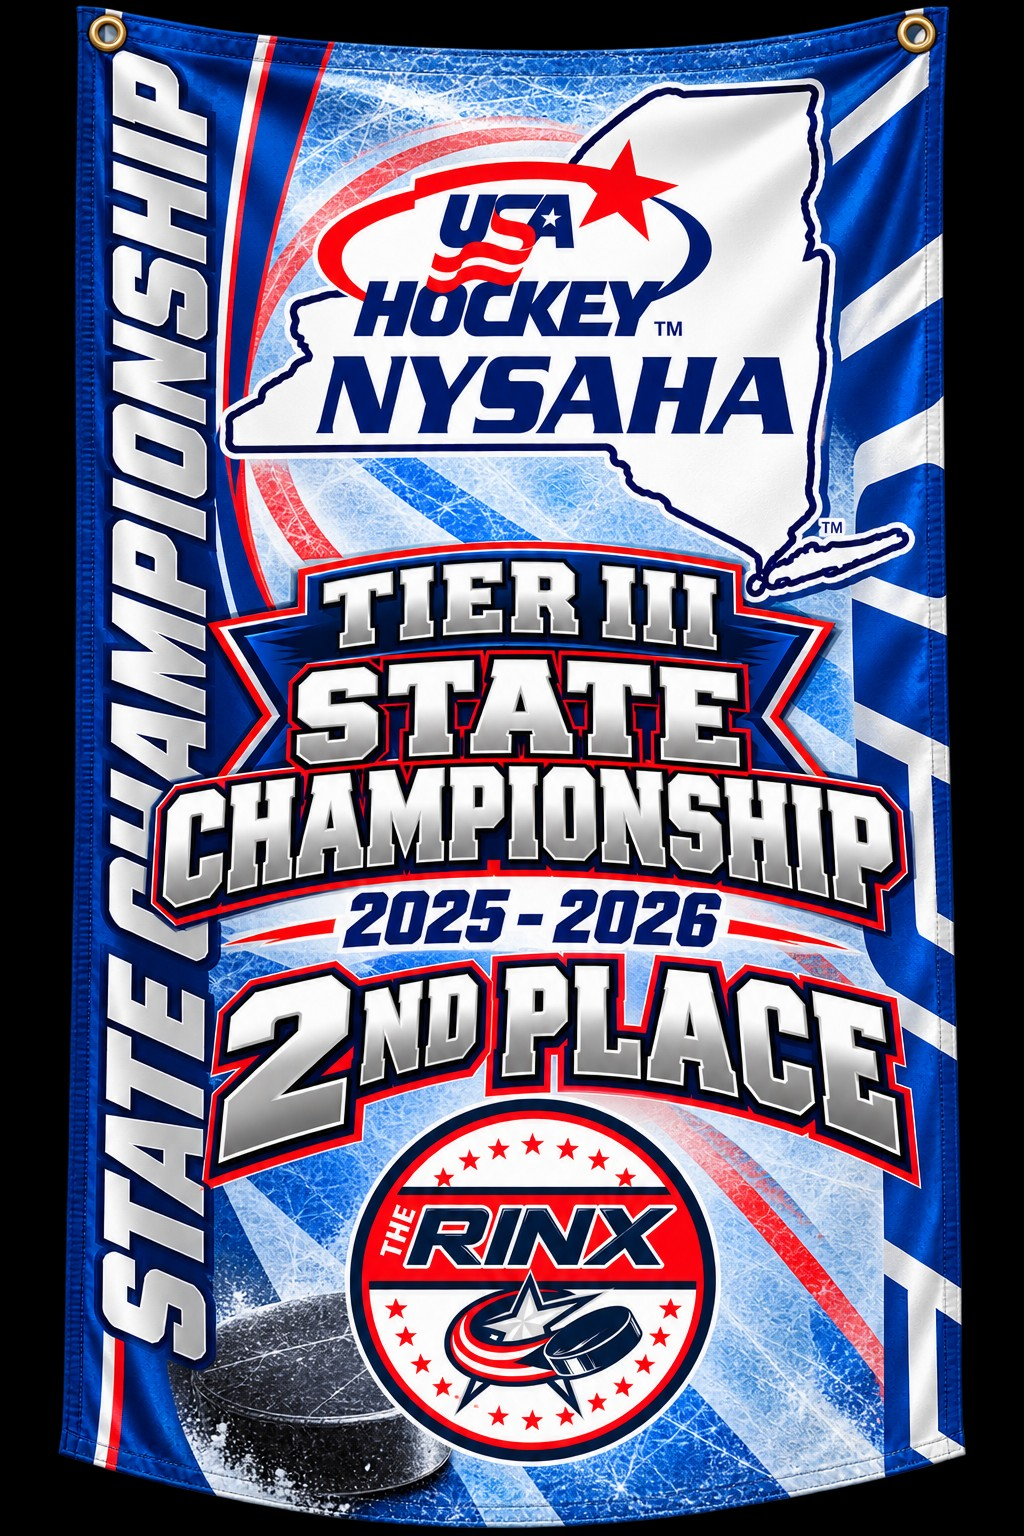
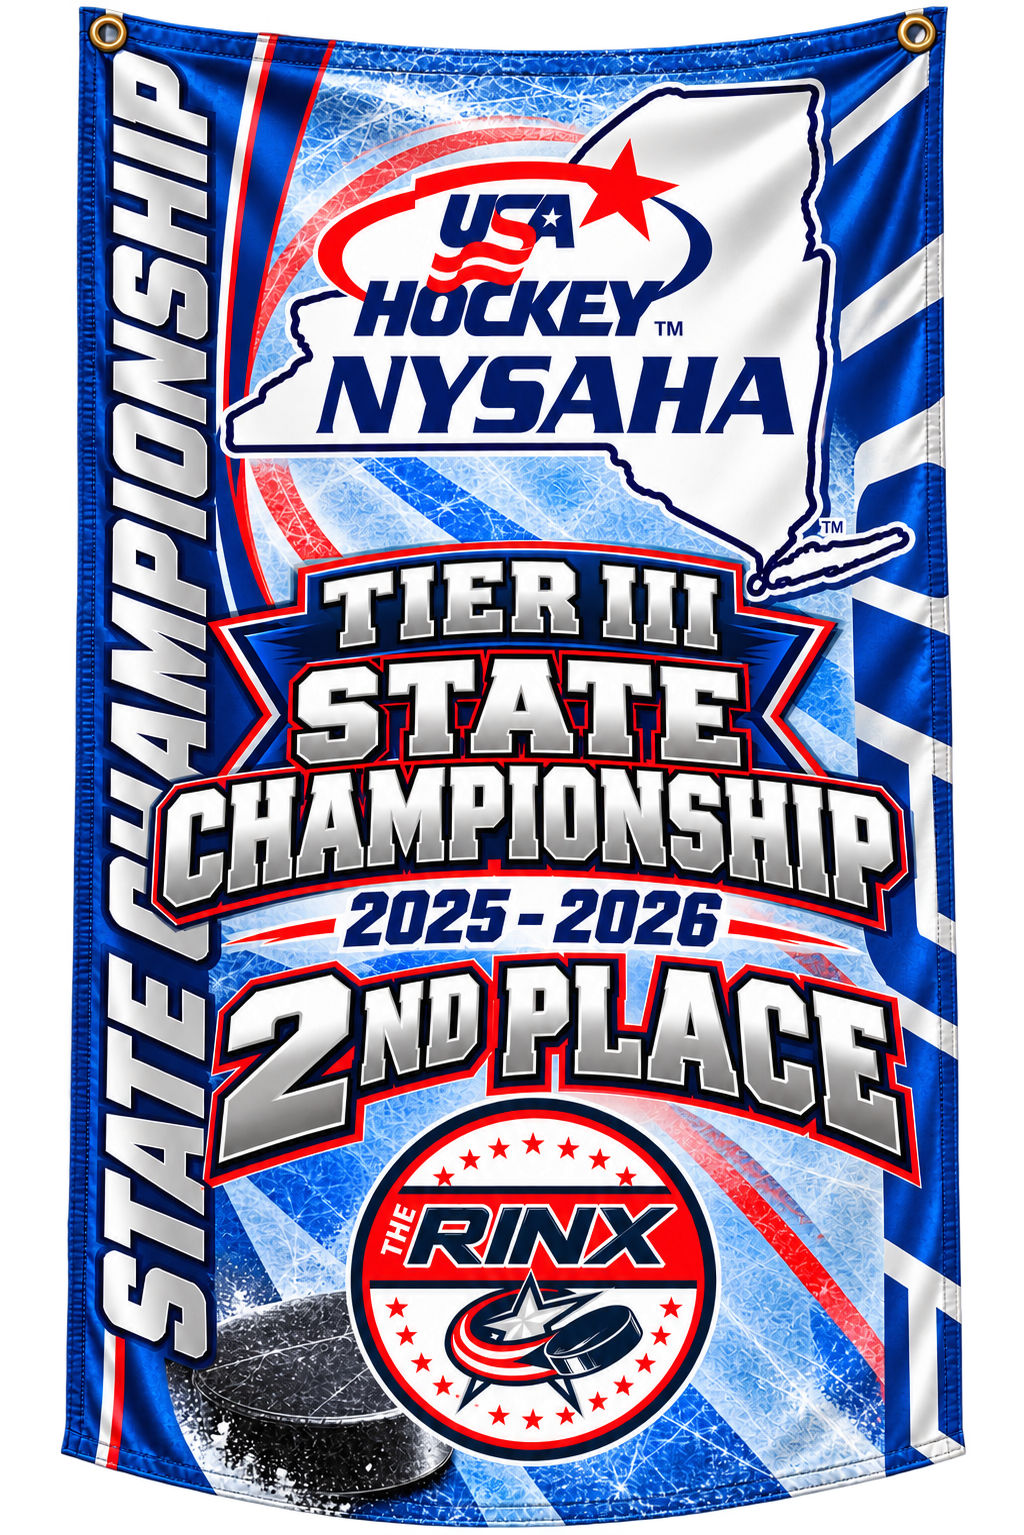
Trophy Room: tab names, headings and captions authored in DA
The block table is now | Team | Item | Text |: Tab, Banners heading and
Gallery heading rows per team, plus one row per GitHub image file name with
its caption (banners under the banner, photos in the viewer and as alt
text). Blank cells fall back to the defaults.

Also moves the transparent Tier III State Championship banner (uploaded into
the generated images/trophy-room folder) into images/trophyroom-14u so it
replaces the black-background version.

diff --git a/blocks/trophy-room/trophy-room.js b/blocks/trophy-room/trophy-room.js
@@ -3,12 +3,19 @@
  * Tabs per team (10U first). Each tab shows the team's championship banners
  * in one horizontal line, then its photo gallery.
  *
- * Banners and photos come from GitHub, listed in /data/trophy-room.json by
+ * Images come from GitHub, listed in /data/trophy-room.json by
  * .github/workflows/trophy-gallery.yml:
- *   images/trophyroom-<team>/          banners, in upload order (file name = caption)
+ *   images/trophyroom-<team>/          banners, in upload order
  *   images/trophyroom-<team>/gallery/  gallery photos, newest first
- * Optional extra banners can be authored as block rows:
- *   | team (e.g. "10U Squirts") | banner image | title |
+ *
+ * The words are authored in DA, one row per setting: | Team | Item | Text |
+ *   | 10U | Tab             | 10U Squirts |
+ *   | 10U | Banners heading | Awards & Accolades |
+ *   | 10U | Gallery heading | Photo Gallery |
+ *   | 10U | <file name, e.g. "3.jpeg"> | caption for that banner or photo |
+ * Anything left blank falls back to a default (a banner's caption comes from
+ * its file name). A row with an image in the Item cell adds an extra banner.
+ * A first row of "Team | Item | Text" is treated as column labels.
  * The page's h1 (and an intro paragraph after it) becomes the title band.
  * Link straight to a team with #14u.
  */
@@ -19,26 +26,49 @@ const MANIFEST = '/data/trophy-room.json';
 
 const teamKey = (text) => Object.keys(TEAMS).find((k) => new RegExp(`\\b${k}\\b`, 'i').test(text));
 
-function readBanners(block) {
-  const banners = {};
-  [...block.children].forEach((row) => {
-    const [teamCell, imageCell, titleCell] = row.children;
-    const key = teamKey(teamCell?.textContent || '');
-    const img = imageCell?.querySelector('img');
-    if (!key || !img) return;
-    (banners[key] ||= []).push({
-      src: img.src,
-      alt: img.alt,
-      title: titleCell?.textContent.trim() || '',
-    });
+const DEFAULT_HEADINGS = { banners: 'Awards & Accolades', gallery: 'Photo Gallery' };
+
+// File name as authored or as stored ("images/.../3.jpeg"), compared loosely.
+const fileKey = (name) => (name || '').split('/').pop().trim().toLowerCase();
+
+function readSettings(block) {
+  const settings = {};
+  Object.keys(TEAMS).forEach((key) => {
+    settings[key] = {
+      tab: '', headings: {}, captions: {}, banners: [],
+    };
   });
-  return banners;
+  [...block.children].forEach((row) => {
+    const [teamCell, itemCell, textCell] = row.children;
+    const key = teamKey(teamCell?.textContent || '');
+    if (!key) return;
+    const team = settings[key];
+    const text = textCell?.textContent.trim() || '';
+    const img = itemCell?.querySelector('img');
+    if (img) {
+      team.banners.push({ src: img.src, alt: img.alt || text, title: text });
+      return;
+    }
+    const item = itemCell?.textContent.trim() || '';
+    if (!item || !text) return;
+    if (/^tab\b/i.test(item)) team.tab = text;
+    else if (/^banners?\b.*heading|^awards?\b.*heading/i.test(item)) team.headings.banners = text;
+    else if (/^(gallery|photos?)\b.*heading/i.test(item)) team.headings.gallery = text;
+    else team.captions[fileKey(item)] = text;
+  });
+  return settings;
+}
+
+// A caption authored for an image file, matched with or without extension.
+function captionFor(team, source) {
+  const name = fileKey(source);
+  return team.captions[name] || team.captions[name.replace(/\.[a-z0-9]+$/, '')] || '';
 }
 
 const attr = (text) => (text || '').replace(/&/g, '&amp;').replace(/"/g, '&quot;').replace(/</g, '&lt;');
 
 function bannerList(list, label) {
-  if (!list?.length) return `<p class="tr-empty">${label} championship banners will hang here.</p>`;
+  if (!list?.length) return `<p class="tr-empty">${label} banners will hang here.</p>`;
   return `<ul class="tr-rafters" tabindex="0" aria-label="${label} championship banners">${list.map((b, i) => `
     <li class="tr-banner" style="--i: ${i}">
       <figure>
@@ -67,7 +97,7 @@ function buildViewer() {
   dialog.setAttribute('closedby', 'any');
   dialog.setAttribute('aria-label', 'Photo viewer');
   dialog.innerHTML = `
-    <figure class="tr-viewer-frame"><figcaption></figcaption></figure>
+    <figure class="tr-viewer-frame"><figcaption><span class="tr-viewer-caption"></span><span class="tr-viewer-count"></span></figcaption></figure>
     <button type="button" class="tr-viewer-btn tr-viewer-prev" aria-label="Previous photo">‹</button>
     <button type="button" class="tr-viewer-btn tr-viewer-next" aria-label="Next photo">›</button>
     <button type="button" class="tr-viewer-close" aria-label="Close">&times;</button>`;
@@ -99,7 +129,8 @@ function openViewer(dialog, photos, start) {
     img.alt = p.alt;
     img.width = p.width;
     img.height = p.height;
-    caption.textContent = `${index + 1} / ${photos.length}`;
+    caption.querySelector('.tr-viewer-caption').textContent = p.caption || '';
+    caption.querySelector('.tr-viewer-count').textContent = `${index + 1} / ${photos.length}`;
   };
   const many = photos.length > 1;
   dialog.querySelectorAll('.tr-viewer-btn').forEach((b) => { b.hidden = !many; });
@@ -120,8 +151,8 @@ function openViewer(dialog, photos, start) {
  * @param {Element} block The block element
  */
 export default async function decorate(block) {
-  const authored = readBanners(block);
-  const teams = Object.values(TEAMS);
+  const settings = readSettings(block);
+  const teams = Object.values(TEAMS).map((t) => ({ ...t, label: settings[t.key].tab || t.label }));
 
   // Title band from the page heading that precedes the block.
   const section = block.closest('.section');
@@ -143,12 +174,23 @@ export default async function decorate(block) {
   } catch {
     // Banners and galleries show their empty state.
   }
-  // GitHub banners first (in upload order), then any authored in the block.
+  // GitHub banners first (in upload order), then any added in the block;
+  // captions authored in DA win over file-name captions.
   const banners = {};
   const gallery = {};
   teams.forEach(({ key }) => {
-    banners[key] = [...(manifest[key]?.banners || []), ...(authored[key] || [])];
-    gallery[key] = manifest[key]?.gallery || [];
+    const team = settings[key];
+    banners[key] = [
+      ...(manifest[key]?.banners || []).map((b) => {
+        const title = captionFor(team, b.source) || b.title;
+        return { ...b, title, alt: title ? `${title} banner` : b.alt };
+      }),
+      ...team.banners,
+    ];
+    gallery[key] = (manifest[key]?.gallery || []).map((p) => {
+      const caption = captionFor(team, p.source);
+      return { ...p, caption, alt: caption || p.alt };
+    });
   });
 
   const fromHash = teamKey(window.location.hash.slice(1));
@@ -163,11 +205,11 @@ export default async function decorate(block) {
       ${teams.map((t) => `
         <section class="tr-panel" id="tr-panel-${t.key}" role="tabpanel" aria-labelledby="tr-tab-${t.key}"${t.key === current ? '' : ' hidden'}>
           <div class="tr-hall">
-            <h2>Awards & Accolades</h2>
+            <h2>${attr(settings[t.key].headings.banners || DEFAULT_HEADINGS.banners)}</h2>
             ${bannerList(banners[t.key], t.label)}
           </div>
           <div class="tr-photos">
-            <h2>Photo Gallery</h2>
+            <h2>${attr(settings[t.key].headings.gallery || DEFAULT_HEADINGS.gallery)}</h2>
             ${galleryList(gallery[t.key], t.label)}
           </div>
         </section>`).join('')}

diff --git a/blocks/trophy-room/trophy-room.css b/blocks/trophy-room/trophy-room.css
@@ -305,6 +305,20 @@
   border-radius: 6px;
 }
 
+.tr-viewer .tr-viewer-caption {
+  display: block;
+  max-width: min(92vw, 720px);
+  margin: 0 auto 4px;
+  font-family: var(--body-font-family);
+  font-weight: 600;
+  letter-spacing: 0;
+  color: var(--color-white);
+}
+
+.tr-viewer .tr-viewer-caption:empty {
+  display: none;
+}
+
 .tr-viewer .tr-viewer-frame figcaption {
   margin-top: 10px;
   font-family: var(--heading-font-family);
